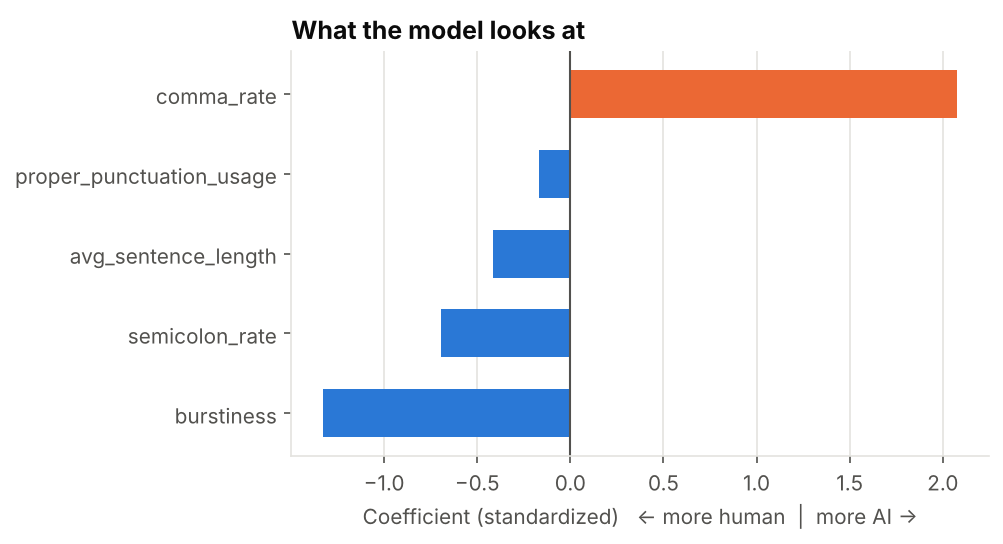
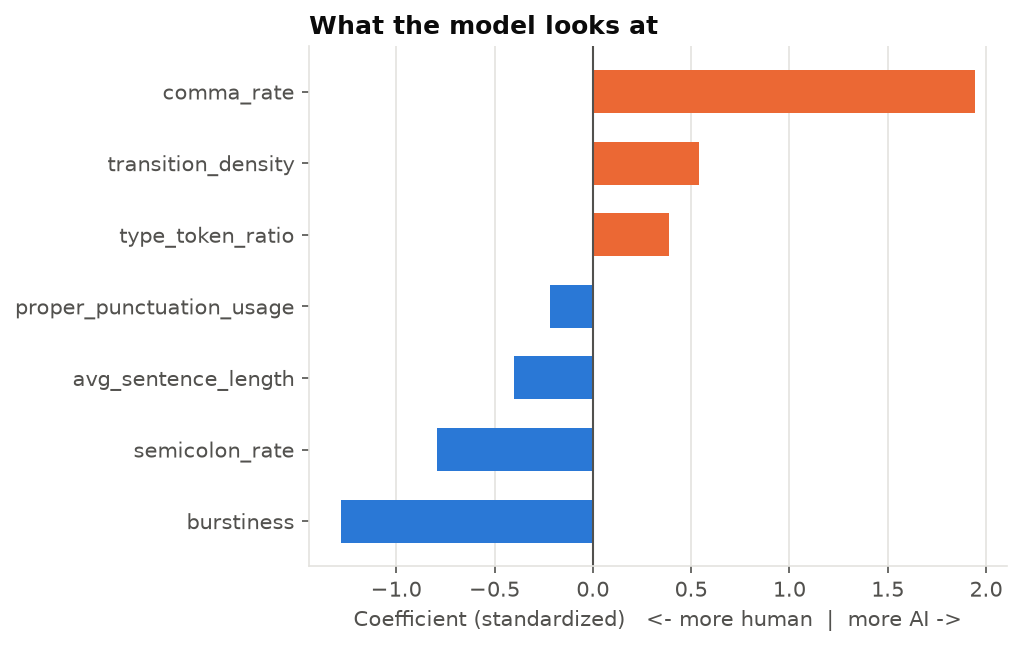
Applied new features

diff --git a/features/features.py b/features/features.py
@@ -1,6 +1,8 @@
 import re
 import statistics
 
+from matplotlib import text
+
 
 
 #splits the sentences by sentence ending punctuation, record sentence length
@@ -132,10 +134,29 @@ def avg_sentence_length(text: str) -> float | None:
 
 
 def transition_density(text: str) -> float | None:   # moreover/furthermore/etc per 1000
-    ...
+    """Transition words per 1000 words."""
+    total_words = count_words(text)
+    if total_words < MIN_WORDS_FOR_RATE:
+        return None
+    transition_words = ["moreover", "furthermore", "however", "therefore", "consequently", "in addition", "on the other hand", "subsequently", ]
+    count = sum(text.lower().count(word) for word in transition_words)
+    return count / total_words * 1000
 
 def type_token_ratio(text: str) -> float | None:     # unique/total over first 300 words
-    ...
+    "The number of unique words in the first 300 words divided by the total number of words in the first 300 words."
+    
+    words = _WORD.findall(text.lower())
+    first_300_words = words[:300]
+    unique_words = set(first_300_words)
+    
+    if not first_300_words:
+        return None
+    
+    for word in first_300_words:
+        if word not in unique_words:
+            unique_words.add(word)
+
+    return len(unique_words) / len(first_300_words)
 
 
 
@@ -147,6 +168,8 @@ FEATURES = {
     "comma_rate": comma_rate,                                   ## Measures the comma rate in the text
     "semicolon_rate": semicolon_rate,
     "avg_sentence_length": avg_sentence_length,
+    "transition_density": transition_density,                    ## Measures the density of transition words in the text
+    "type_token_ratio": type_token_ratio,                          ## Measures the ratio of unique words to total words in the first 300 words
 
 
 
